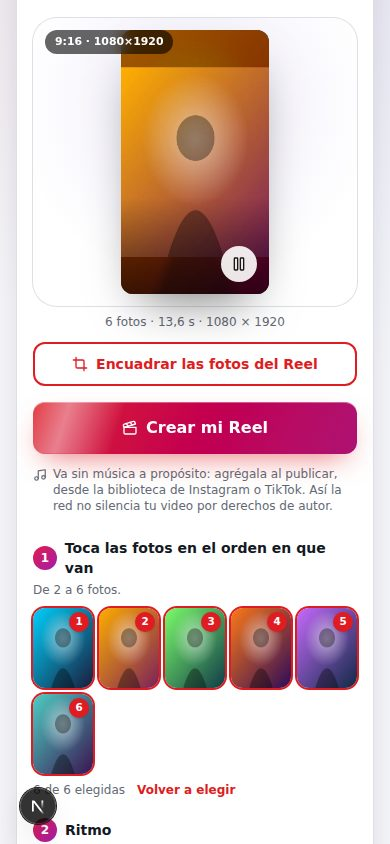
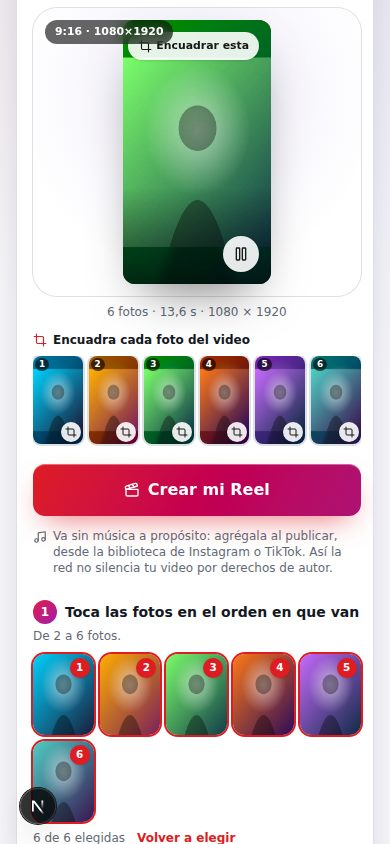
Para tus redes: capturas del encuadre por foto en el Reel
Claude-Session: https://claude.ai/code/session_015sFCdzMkc8c7GNsiUNJXDD

diff --git a/para-tus-redes/index.html b/para-tus-redes/index.html
@@ -43,7 +43,8 @@ img{width:100%;display:block}
 <p class="b">Si la persona compró videos (Aura, Órbita, Pasarela…), aparece una quinta opción, <b>«Tus videos»</b>. Elige el formato (9:16 para Reels y TikTok va primero) y ve cada video con el recorte que llevaría. Con el ícono de recorte abre el mismo editor de las fotos, sobre un cuadro del video: arrastra, acerca o «Foto entera». Al tocar <b>«Preparar en 9:16»</b>, el servidor recorta el video <b>completo, con su sonido</b> (unos 10 s para 30 s de video). Ya hecho, se reproduce en su tarjeta con <b>Descargar</b>, <b>Compartir</b> y <b>Encuadrar</b> de nuevo. La descarga queda registrada y marcada como cualquier entrega. En automático, el video va al centro; si recortar se come más de un cuarto, va entero sobre un fondo desenfocado de él mismo.</p>
 <div class="fila"><figure><div class="cel"><img src="capturas/movil-9-videos.jpg"></div><figcaption>«Tus videos» en 9:16</figcaption></figure><figure><div class="cel" style="max-width:380px"><img src="capturas/movil-9-videos-editor.jpg"></div><figcaption>Encuadrando sobre un cuadro del video</figcaption></figure></div>
 <div class="fila" style="margin-top:18px"><figure><div class="cel"><img src="capturas/movil-9-videos-listo.jpg"></div><figcaption>Video preparado: Descargar / Encuadrar (el navegador de pruebas no reproduce H.264, por eso se ve negro)</figcaption></figure><figure><div class="web"><img src="capturas/web-9-videos.jpg"></div><figcaption>Web</figcaption></figure></div>
-<div class="fila" style="margin-top:18px"><figure><div class="cel" style="max-width:220px"><img src="capturas/video-cuadro-recortado.jpg"></div><figcaption>Un cuadro del video real generado (1080×1920)</figcaption></figure><figure><div class="cel"><img src="capturas/movil-9-reel-encuadre.jpg"></div><figcaption>Reel: «Encuadrar las fotos del Reel», ahora como botón</figcaption></figure></div>
+<div class="fila" style="margin-top:18px"><figure><div class="cel" style="max-width:220px"><img src="capturas/video-cuadro-recortado.jpg"></div><figcaption>Un cuadro del video real generado (1080×1920)</figcaption></figure><figure><div class="cel"><img src="capturas/movil-9-reel-encuadre.jpg"></div><figcaption>Reel: cada foto del video con su ícono de recorte, y «Encuadrar esta» sobre la vista previa</figcaption></figure></div>
+<div class="fila" style="margin-top:18px"><figure><div class="cel"><img src="capturas/movil-9-reel-encuadrada.jpg"></div><figcaption>Reel con la foto 2 encuadrada a mano (ícono rojo)</figcaption></figure></div>
 <h2>C · Foto suelta</h2>
 <p class="b">Cada foto en el formato de cada red: cuadrícula de vistas pequeñas, tocar para ampliar y descargar.</p>
 <h2>1 · Foto suelta · Post vertical 4:5 (Instagram y Facebook)</h2>
